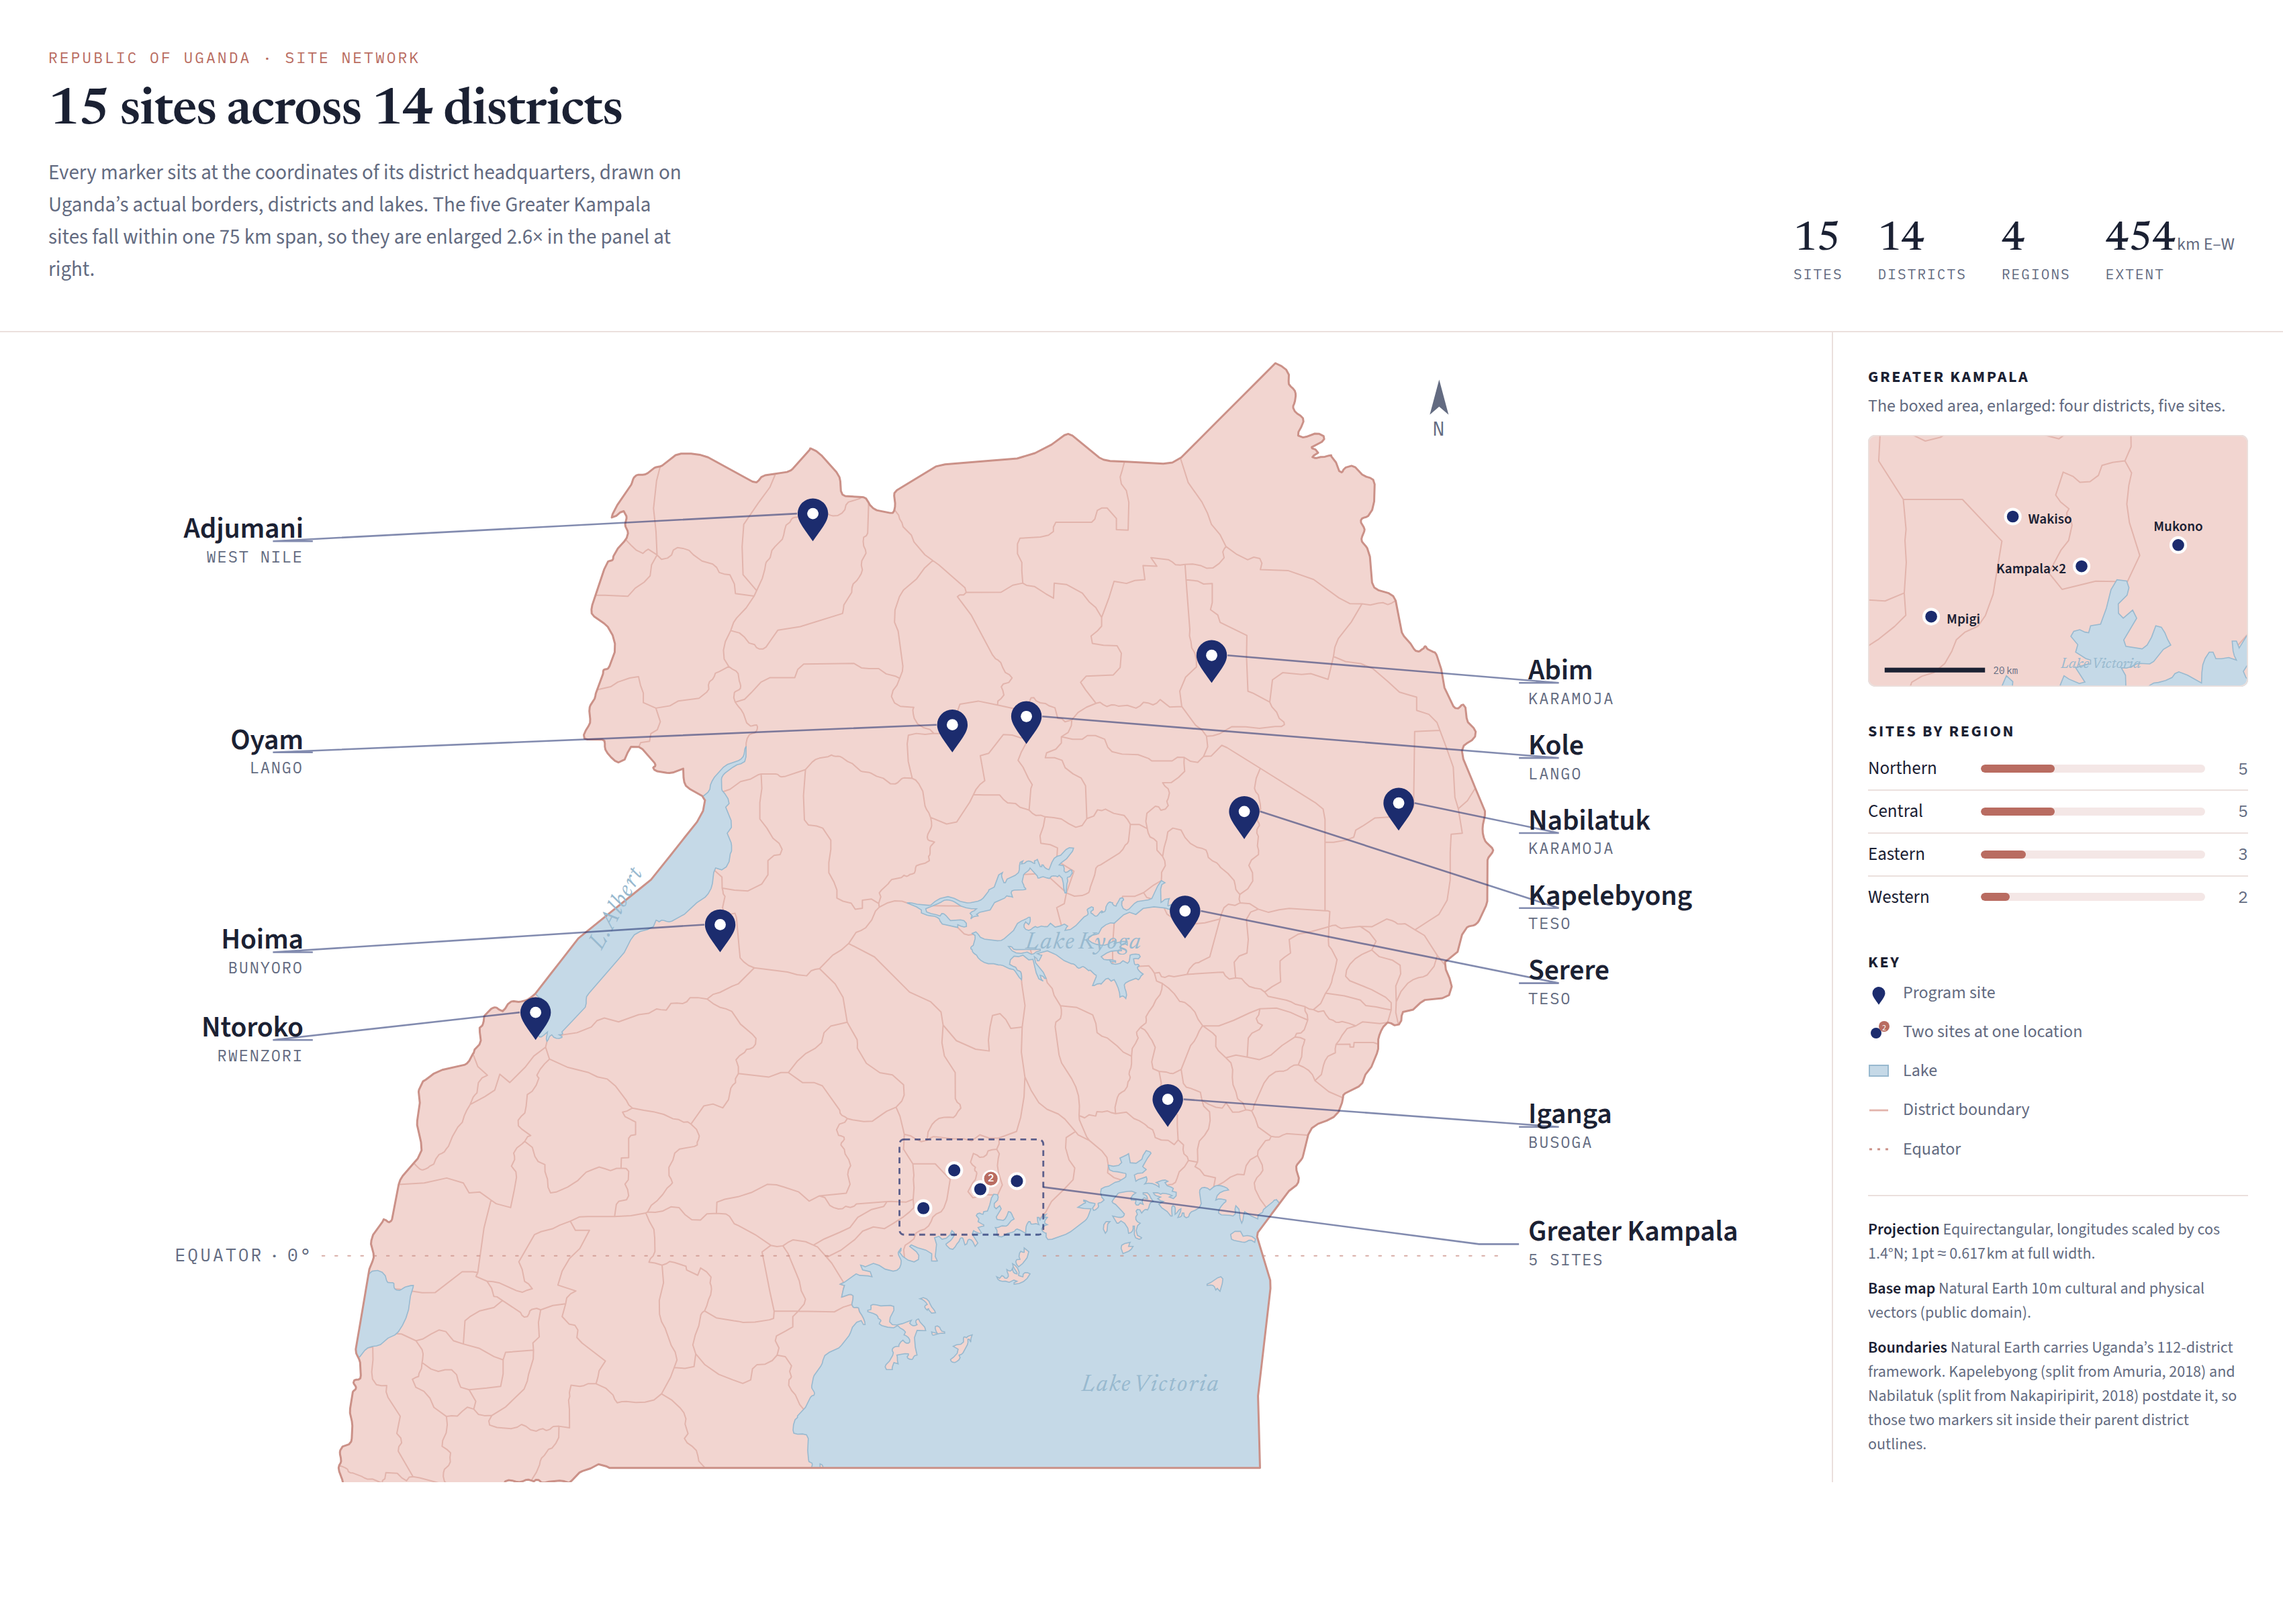
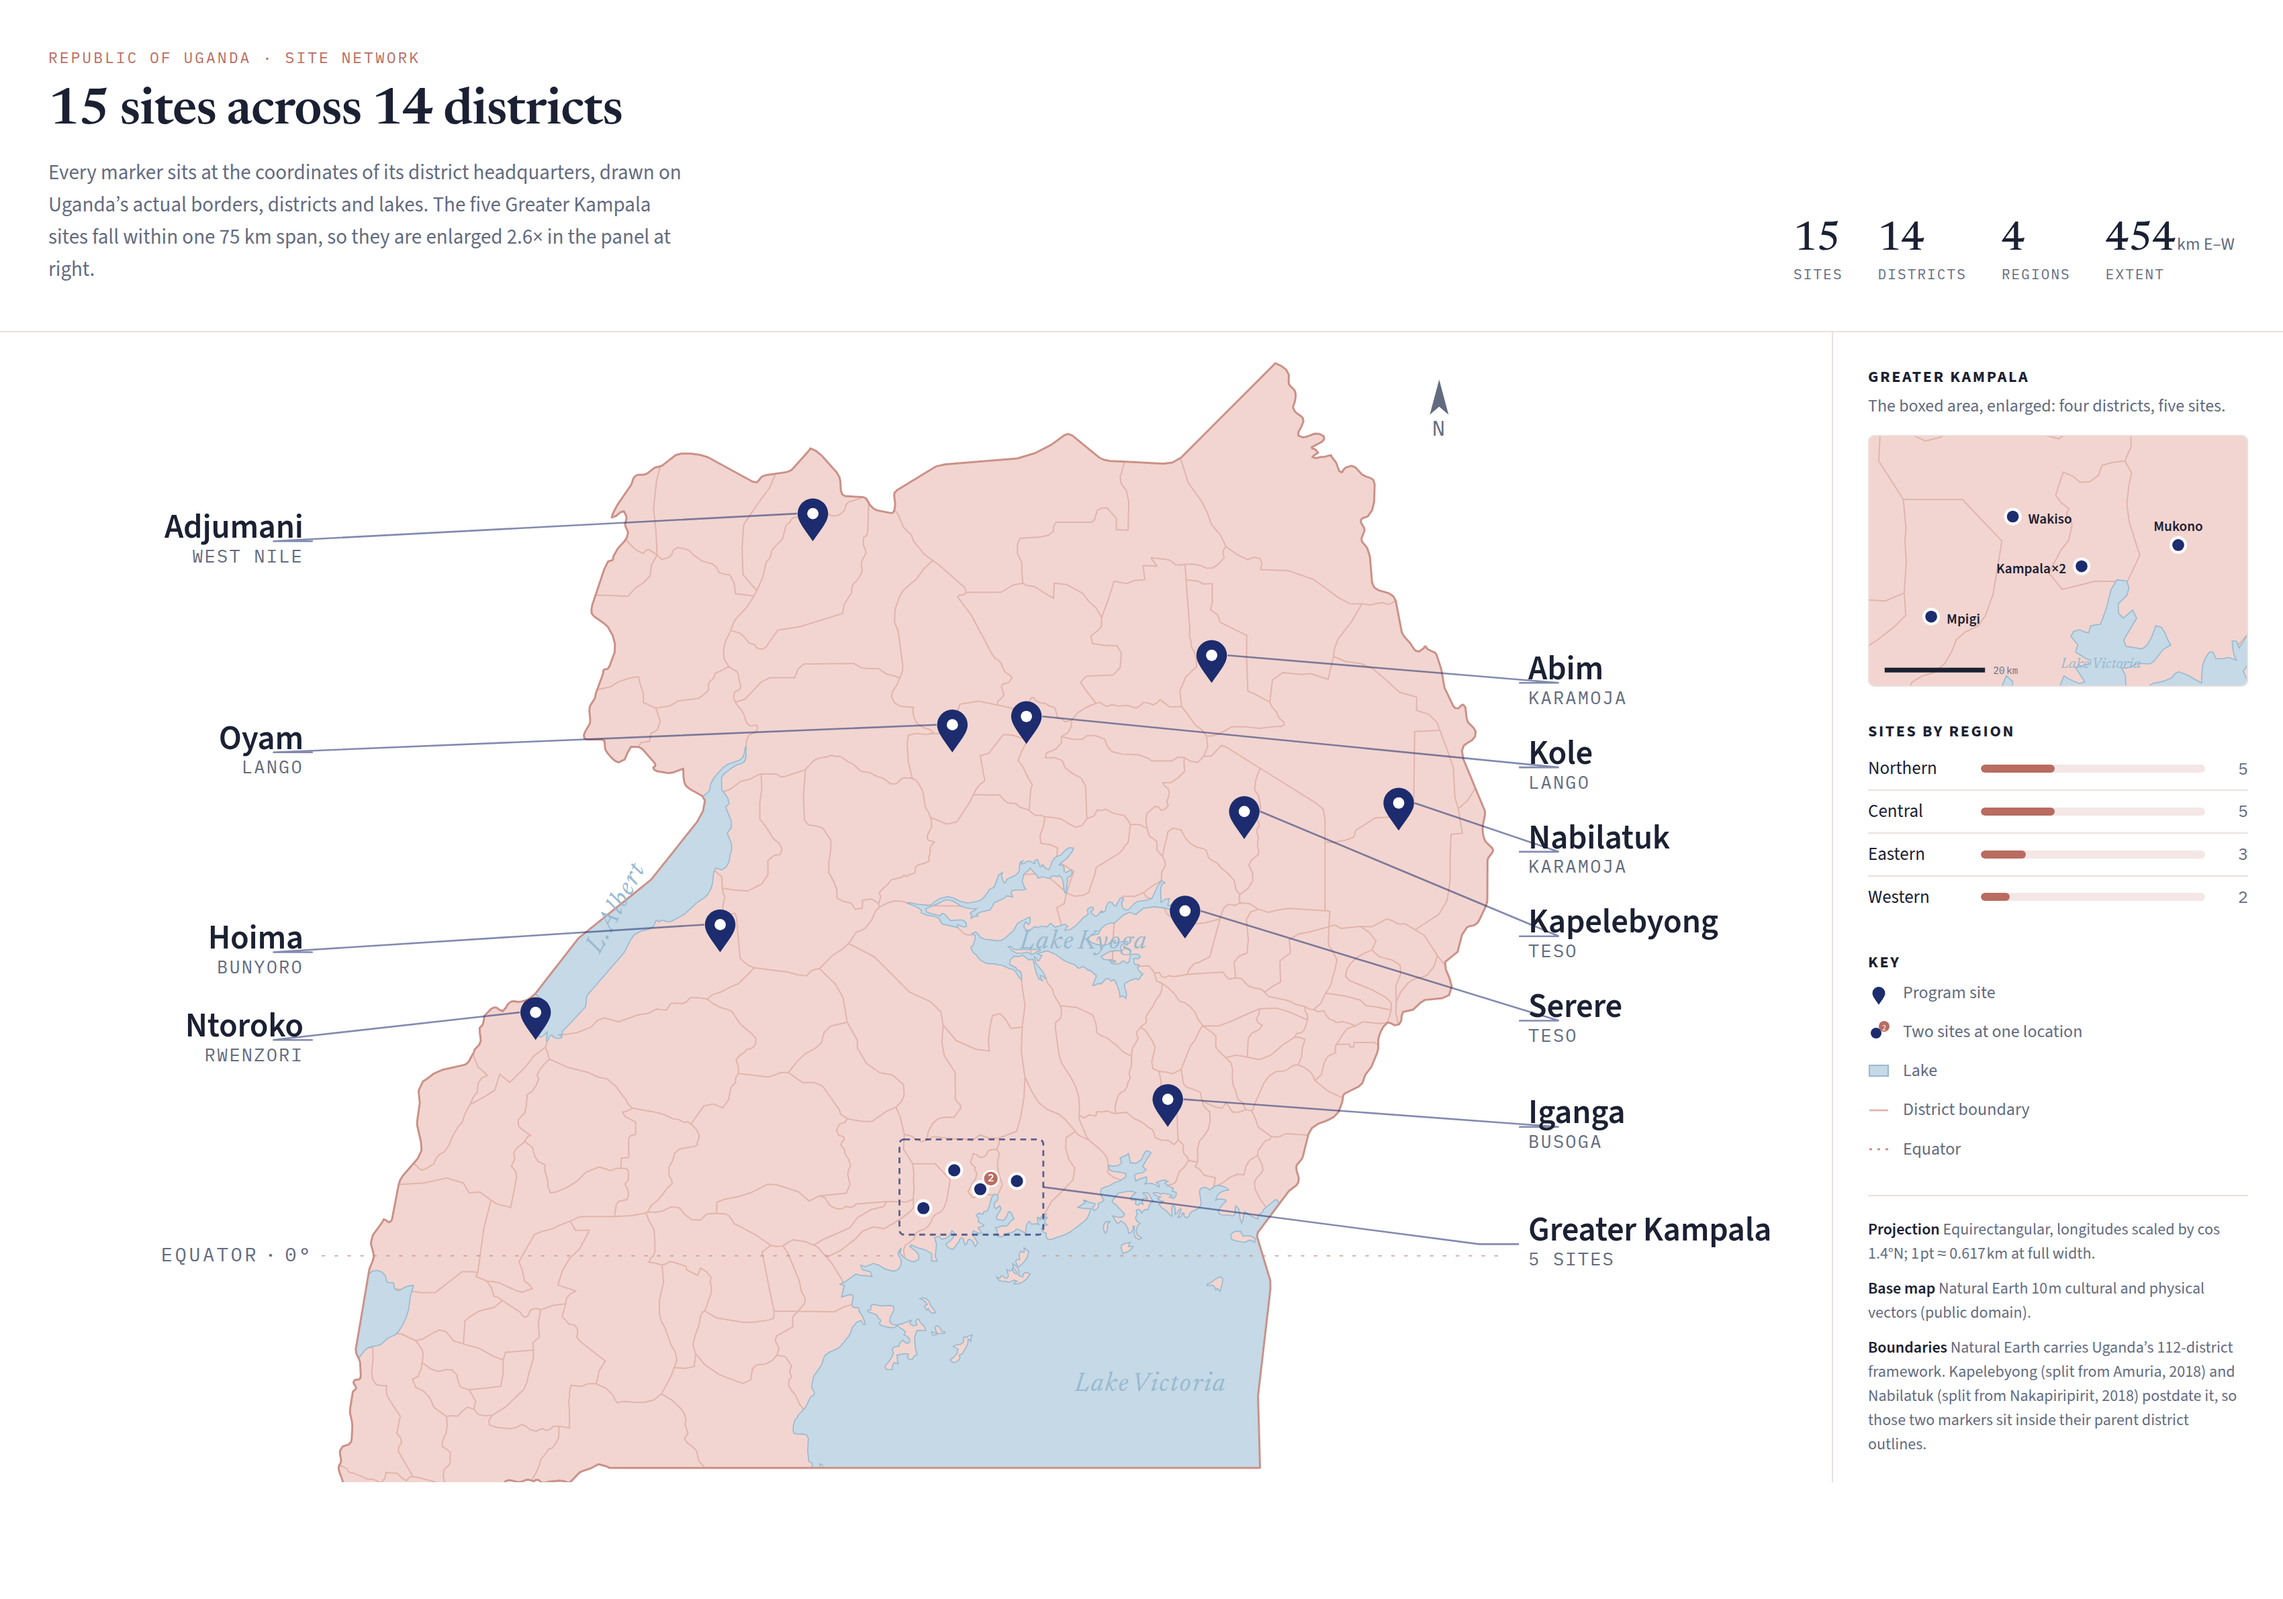
Enlarge the type on the national map
Site labels go 25 to 29pt and their subregion lines 13.5 to 15.5pt, with
the lake names, equator caption, scale ticks and compass raised to match,
so the map reads at slide distance. Label stacking clearance follows from
64 to 72pt; the longest label now reaches 1229 of the 1260pt gutter edge,
so nothing overflows.

Claude-Session: https://claude.ai/code/session_01T5yP7TBR6tDykaCEYoHf9x

diff --git a/index.html b/index.html
@@ -53,16 +53,16 @@ h1{margin:0;font-family:var(--serif);font-weight:600;font-size:clamp(27px,3.4vw,
 .lake{fill:var(--water);stroke:var(--water-line);stroke-width:.8;vector-effect:non-scaling-stroke}
 .border{fill:none;stroke:var(--land-line);stroke-width:1.7;stroke-linejoin:round}
 .equator line{stroke:var(--land-line);stroke-width:1.2;stroke-dasharray:2 9;stroke-linecap:round;opacity:.75}
-.equator text{fill:var(--muted);font-family:var(--mono);font-size:15px;letter-spacing:.12em}
+.equator text{fill:var(--muted);font-family:var(--mono);font-size:16.5px;letter-spacing:.12em}
 .lake-names text{fill:var(--water-line);font-family:var(--serif);font-style:italic;
-  font-size:21px;letter-spacing:.05em;text-anchor:middle}
+  font-size:23px;letter-spacing:.05em;text-anchor:middle}
 .detail-box rect{fill:none;stroke:var(--mark);stroke-width:1.6;stroke-dasharray:5 4;opacity:.7}
 
 /* ---- sites ---- */
 .site{cursor:default;outline:none}
 .leader{fill:none;stroke:var(--mark);stroke-width:1.5;opacity:.55}
-.lbl{fill:var(--ink);font-size:25px;font-weight:600;letter-spacing:-.005em}
-.sub{fill:var(--muted);font-family:var(--mono);font-size:13.5px;letter-spacing:.08em;
+.lbl{fill:var(--ink);font-size:29px;font-weight:600;letter-spacing:-.005em}
+.sub{fill:var(--muted);font-family:var(--mono);font-size:15.5px;letter-spacing:.08em;
   text-transform:uppercase}
 .pin-body{fill:var(--mark)}
 .pin-eye{fill:var(--card)}
@@ -82,10 +82,10 @@ h1{margin:0;font-family:var(--serif);font-weight:600;font-size:clamp(27px,3.4vw,
 
 /* ---- furniture ---- */
 .compass{fill:var(--muted)}
-.compass-n{fill:var(--muted);font-family:var(--mono);font-size:17px;text-anchor:middle;letter-spacing:.06em}
+.compass-n{fill:var(--muted);font-family:var(--mono);font-size:18.5px;text-anchor:middle;letter-spacing:.06em}
 .bar{fill:var(--ink)}
 .bar.alt{fill:var(--card);stroke:var(--ink);stroke-width:1}
-.tick{fill:var(--muted);font-family:var(--mono);font-size:14px}
+.tick{fill:var(--muted);font-family:var(--mono);font-size:15.5px}
 
 /* ---- rail ---- */
 .rail h2{margin:0 0 3px;font-family:var(--sans);font-size:12px;font-weight:700;
@@ -200,9 +200,9 @@ h1{margin:0;font-family:var(--serif);font-weight:600;font-size:clamp(27px,3.4vw,
 </g>
 <g class="site" tabindex="0" role="listitem" data-site="kole"
      aria-label="Kole — Kole District, Northern Region">
-  <path class="leader" d="M607.7 309.2L1048.0 344.6L1014.0 344.6"/>
-  <text class="lbl" x="1022.0" y="341.6" text-anchor="start">Kole</text>
-  <text class="sub" x="1022.0" y="362.6" text-anchor="start">Lango</text>
+  <path class="leader" d="M607.7 309.2L1048.0 352.6L1014.0 352.6"/>
+  <text class="lbl" x="1022.0" y="349.6" text-anchor="start">Kole</text>
+  <text class="sub" x="1022.0" y="370.6" text-anchor="start">Lango</text>
   <g class="pin" transform="translate(594.2 332.7)">
     <circle class="halo" cy="-23.5" r="20"/>
     <path class="pin-body" d="M0 0c-7.2-10.4-13-17-13-23.5a13 13 0 1 1 26 0C13-17 7.2-10.4 0 0Z"/><circle class="pin-eye" cy="-23.5" r="4.8"/>
@@ -220,9 +220,9 @@ h1{margin:0;font-family:var(--serif);font-weight:600;font-size:clamp(27px,3.4vw,
 </g>
 <g class="site" tabindex="0" role="listitem" data-site="nabilatuk"
      aria-label="Nabilatuk — Nabilatuk District, Northern Region">
-  <path class="leader" d="M925.0 383.0L1048.0 408.6L1014.0 408.6"/>
-  <text class="lbl" x="1022.0" y="405.6" text-anchor="start">Nabilatuk</text>
-  <text class="sub" x="1022.0" y="426.6" text-anchor="start">Karamoja</text>
+  <path class="leader" d="M925.0 383.0L1048.0 424.6L1014.0 424.6"/>
+  <text class="lbl" x="1022.0" y="421.6" text-anchor="start">Nabilatuk</text>
+  <text class="sub" x="1022.0" y="442.6" text-anchor="start">Karamoja</text>
   <g class="pin" transform="translate(911.5 406.5)">
     <circle class="halo" cy="-23.5" r="20"/>
     <path class="pin-body" d="M0 0c-7.2-10.4-13-17-13-23.5a13 13 0 1 1 26 0C13-17 7.2-10.4 0 0Z"/><circle class="pin-eye" cy="-23.5" r="4.8"/>
@@ -230,9 +230,9 @@ h1{margin:0;font-family:var(--serif);font-weight:600;font-size:clamp(27px,3.4vw,
 </g>
 <g class="site" tabindex="0" role="listitem" data-site="kapelebyong"
      aria-label="Kapelebyong — Kapelebyong District, Eastern Region">
-  <path class="leader" d="M793.4 390.2L1048.0 472.6L1014.0 472.6"/>
-  <text class="lbl" x="1022.0" y="469.6" text-anchor="start">Kapelebyong</text>
-  <text class="sub" x="1022.0" y="490.6" text-anchor="start">Teso</text>
+  <path class="leader" d="M793.4 390.2L1048.0 496.6L1014.0 496.6"/>
+  <text class="lbl" x="1022.0" y="493.6" text-anchor="start">Kapelebyong</text>
+  <text class="sub" x="1022.0" y="514.6" text-anchor="start">Teso</text>
   <g class="pin" transform="translate(779.9 413.7)">
     <circle class="halo" cy="-23.5" r="20"/>
     <path class="pin-body" d="M0 0c-7.2-10.4-13-17-13-23.5a13 13 0 1 1 26 0C13-17 7.2-10.4 0 0Z"/><circle class="pin-eye" cy="-23.5" r="4.8"/>
@@ -240,9 +240,9 @@ h1{margin:0;font-family:var(--serif);font-weight:600;font-size:clamp(27px,3.4vw,
 </g>
 <g class="site" tabindex="0" role="listitem" data-site="serere"
      aria-label="Serere — Serere District, Eastern Region">
-  <path class="leader" d="M742.9 475.0L1048.0 536.6L1014.0 536.6"/>
-  <text class="lbl" x="1022.0" y="533.6" text-anchor="start">Serere</text>
-  <text class="sub" x="1022.0" y="554.6" text-anchor="start">Teso</text>
+  <path class="leader" d="M742.9 475.0L1048.0 568.6L1014.0 568.6"/>
+  <text class="lbl" x="1022.0" y="565.6" text-anchor="start">Serere</text>
+  <text class="sub" x="1022.0" y="586.6" text-anchor="start">Teso</text>
   <g class="pin" transform="translate(729.4 498.5)">
     <circle class="halo" cy="-23.5" r="20"/>
     <path class="pin-body" d="M0 0c-7.2-10.4-13-17-13-23.5a13 13 0 1 1 26 0C13-17 7.2-10.4 0 0Z"/><circle class="pin-eye" cy="-23.5" r="4.8"/>

diff --git a/tools/template.html b/tools/template.html
@@ -53,16 +53,16 @@ h1{margin:0;font-family:var(--serif);font-weight:600;font-size:clamp(27px,3.4vw,
 .lake{fill:var(--water);stroke:var(--water-line);stroke-width:.8;vector-effect:non-scaling-stroke}
 .border{fill:none;stroke:var(--land-line);stroke-width:1.7;stroke-linejoin:round}
 .equator line{stroke:var(--land-line);stroke-width:1.2;stroke-dasharray:2 9;stroke-linecap:round;opacity:.75}
-.equator text{fill:var(--muted);font-family:var(--mono);font-size:15px;letter-spacing:.12em}
+.equator text{fill:var(--muted);font-family:var(--mono);font-size:16.5px;letter-spacing:.12em}
 .lake-names text{fill:var(--water-line);font-family:var(--serif);font-style:italic;
-  font-size:21px;letter-spacing:.05em;text-anchor:middle}
+  font-size:23px;letter-spacing:.05em;text-anchor:middle}
 .detail-box rect{fill:none;stroke:var(--mark);stroke-width:1.6;stroke-dasharray:5 4;opacity:.7}
 
 /* ---- sites ---- */
 .site{cursor:default;outline:none}
 .leader{fill:none;stroke:var(--mark);stroke-width:1.5;opacity:.55}
-.lbl{fill:var(--ink);font-size:25px;font-weight:600;letter-spacing:-.005em}
-.sub{fill:var(--muted);font-family:var(--mono);font-size:13.5px;letter-spacing:.08em;
+.lbl{fill:var(--ink);font-size:29px;font-weight:600;letter-spacing:-.005em}
+.sub{fill:var(--muted);font-family:var(--mono);font-size:15.5px;letter-spacing:.08em;
   text-transform:uppercase}
 .pin-body{fill:var(--mark)}
 .pin-eye{fill:var(--card)}
@@ -82,10 +82,10 @@ h1{margin:0;font-family:var(--serif);font-weight:600;font-size:clamp(27px,3.4vw,
 
 /* ---- furniture ---- */
 .compass{fill:var(--muted)}
-.compass-n{fill:var(--muted);font-family:var(--mono);font-size:17px;text-anchor:middle;letter-spacing:.06em}
+.compass-n{fill:var(--muted);font-family:var(--mono);font-size:18.5px;text-anchor:middle;letter-spacing:.06em}
 .bar{fill:var(--ink)}
 .bar.alt{fill:var(--card);stroke:var(--ink);stroke-width:1}
-.tick{fill:var(--muted);font-family:var(--mono);font-size:14px}
+.tick{fill:var(--muted);font-family:var(--mono);font-size:15.5px}
 
 /* ---- rail ---- */
 .rail h2{margin:0 0 3px;font-family:var(--sans);font-size:12px;font-weight:700;

diff --git a/tools/build_map.py b/tools/build_map.py
@@ -9,7 +9,7 @@ SITES = json.load(open(os.path.join(ROOT, "data", "sites.json")))["sites"]
 
 NAT, INS = GEO["national"], GEO["inset"]
 GUTTER = 260          # label column either side of the national map
-LABEL_GAP = 64        # minimum vertical spacing between stacked labels (name + subregion)
+LABEL_GAP = 72        # minimum vertical spacing between stacked labels (name + subregion)
 SIDE = {"Adjumani": -1, "Oyam": -1, "Hoima": -1, "Ntoroko": -1,
         "Abim": 1, "Kole": 1, "Nabilatuk": 1, "Kapelebyong": 1, "Serere": 1, "Iganga": 1}
 
